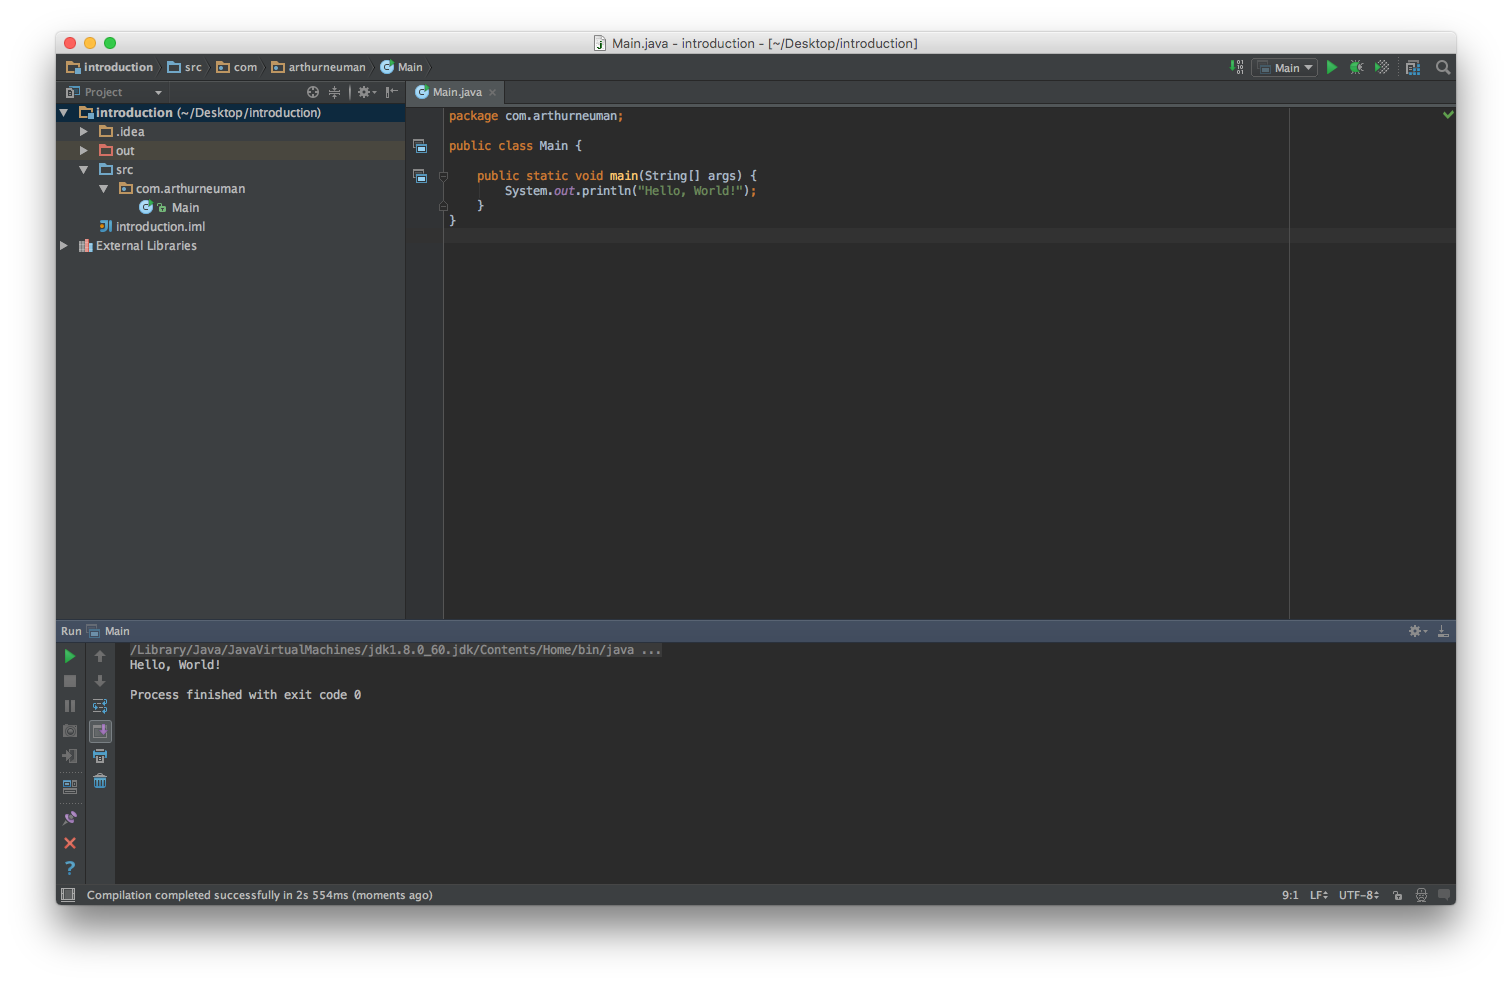
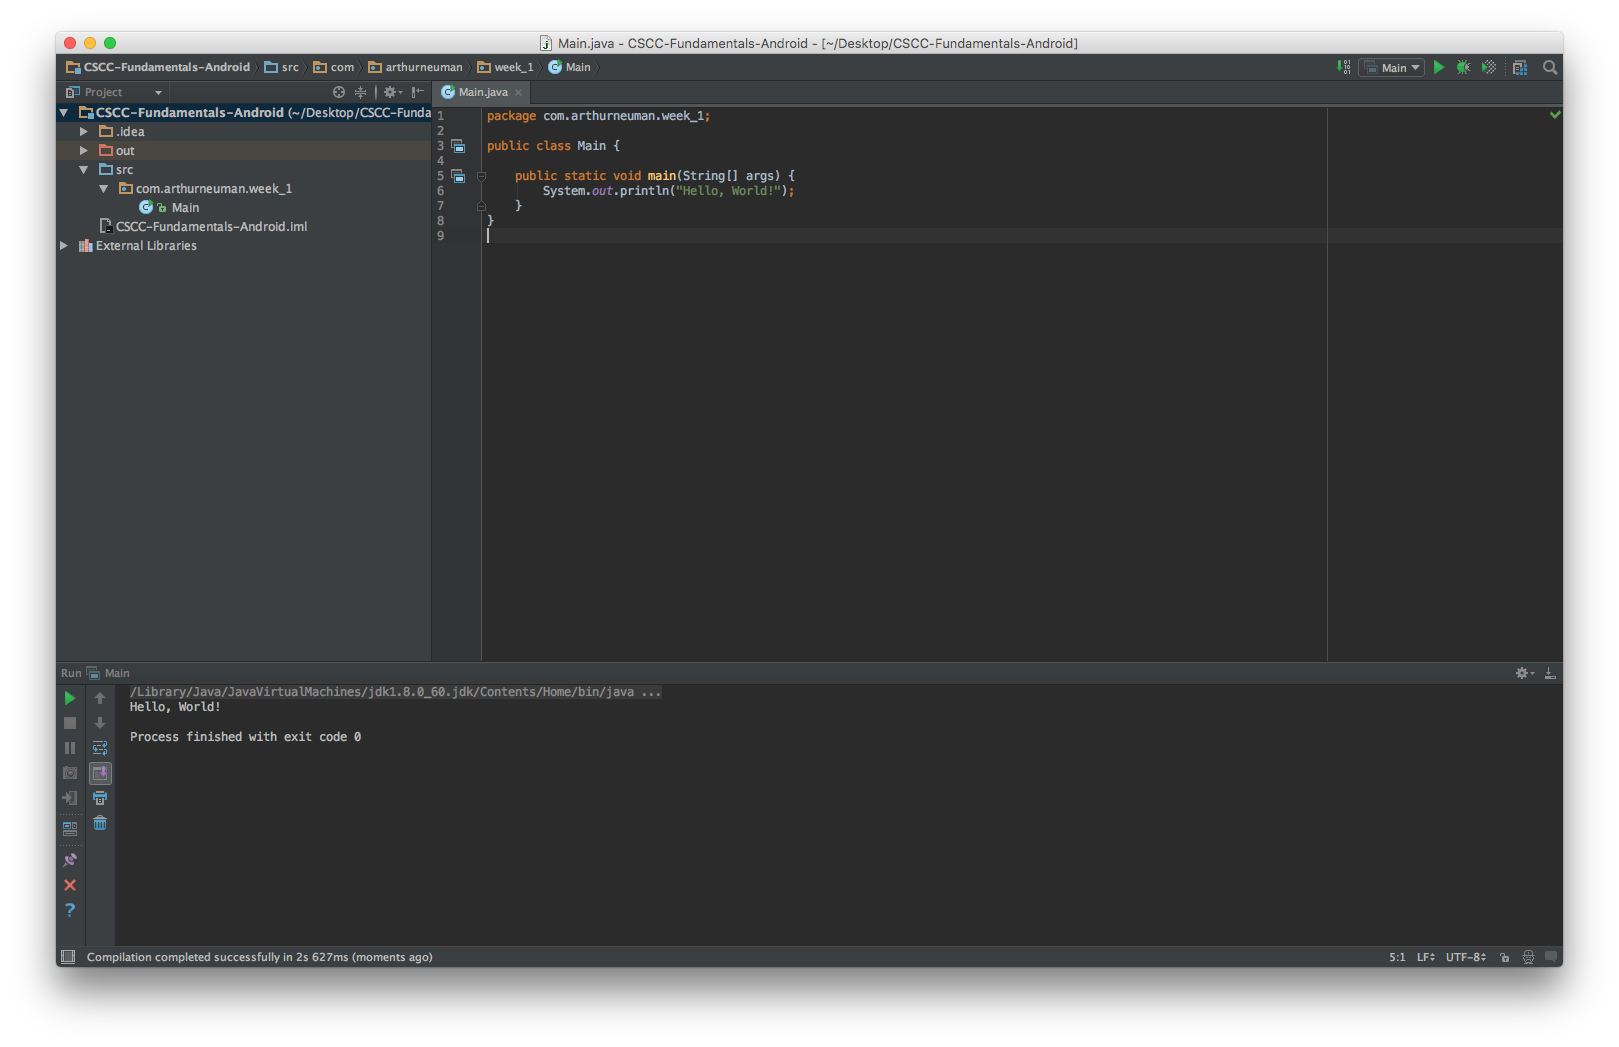
Update week 1 with GitHub notes

Changed region(s): [[0.0311, 0.0305, 0.9636, 0.9442], [0.2798, 0.2132, 0.3108, 0.2437]]

diff --git a/week_01/readme.md b/week_01/readme.md
@@ -3,7 +3,7 @@
 ## Corresponding Text
 *Learn Java for Android Development*, pp. 1-11, 37-70
 
-## Getting Started - IntelliJ IDEA Java IDE
+## IntelliJ IDEA Java IDE
 IntelliJ IDEA Community Edition is a free integrated development environment
 (IDE) providing useful features for Java programming.
 
@@ -30,8 +30,9 @@ To start, we'll rely on the command line app template. Make sure **Create
 project from template** is selected and click **Next**.
 
 Now, you can give the project a title, choose where it will be saved, and name
-the base package (we'll talk about packages in more detail later).  I've chosen
-the following for my first project:
+the base package (we'll talk about packages in more detail later). For now,
+your base package name should be something like *com.myname.week_1*. I've
+chosen the following for my first project:
 
 ![IntelliJ Project Details](images/new_project_details.png)
 
@@ -42,10 +43,10 @@ an editor on the right.
 
 We can write Java code in the editor and run our programs from the IntelliJ IDE
 itself.  We can check that everything is working by entering the following code
-in the editor.  Make sure you replace `package com.myname` with what you
+in the editor.  Make sure you replace `package com.myname.week_1` with what you
 named your package.
 
-    package com.myname;
+    package com.myname.week_1;
 
     public class Main {
 
@@ -107,7 +108,7 @@ memory and the address of that location is stored in the variable.
 ### Creating variables and storing values
 Recall that variables are named storage locations for data. Storing data and
 accessing it later is important in nearly all computer programs.  In Java,
-a variable name can be any collection of letters, digits, "_", or "$",
+a variable name can be any collection of letters, digits, "\_", or "$",
 beginning as long as it doesn't begin with a digit.  Typically, variable names
 begin with a letter and describe the value being stored.
 
@@ -177,7 +178,7 @@ The following is a syntactically valid Java program consisting only of
 variable declarations:
 
 ```
-package com.myname;
+package com.myname.week_1;
 
 public class Main {
     public static void main(String[] args) {
@@ -269,7 +270,7 @@ example, comments are preceded by two forward slashes, `//`.  We're also using
 `System.out.println()`; remember that this lets us print values to the console.
 
 ```
-package com.myname;
+package com.myname.week_1;
 
 public class Main {
     public static void main(String[] args) {
@@ -324,7 +325,7 @@ corresponding to the characters.
 Lets looks at some more examples of operators.
 
 ```
-package com.myname;
+package com.myname.week_1;
 
 public class Main {
     public static void main(String[] args) {
@@ -379,7 +380,7 @@ Finally, let's look at the array index operator.  For this example, we'll
 initialize an array with some values using braces.
 
 ```
-package com.myname;
+package com.myname.week_1;
 
 public class Main {
     public static void main(String[] args) {
@@ -426,14 +427,71 @@ integer.
 
 What happens in the following?
 
-```int quotient = 10 / 4```
+```
+int quotient = 10 / 4
+```
 
 The value of quotient is *2*.  If you were to divide 10 by 4 by hand, you would
 see that the quotient is 2.5.  Since the left hand side is an integer and 2.5
 is not an integer, the value is truncated and the integer *2* is stored in
 *quotient*.
 
-### Exercises
+## Using GitHub
+For this class, we'll use GitHub to save and share our work.
+
+### Git and GitHub
+GitHub is built on Git, a version control system allowing you to keep track of
+changes to your code at various points in time as snapshots.  When working with
+Git on your computer, there are three distinct stages in which data resides:
+the working directory, the staging area, and the local repository.  The working
+directory is a where data you are modifying exists; the working directory
+consists of the files that you will make changes to as you develop your
+programs. The staging area stores information about what data will be part of
+the next snapshot you store. The repository is a store of all the snapshots
+you've taken; you can use the repository to compare different snapshots and
+even revert your data to the state it was in a previous snapshot.
+
+A basic Git workflow consists of making changes to files in the working
+directory, adding them to a new snapshot in the staging area, and committing
+the snapshot to the repository. All this can take place on your own computer.
+Git is also able to easily update a repository on another computer based on
+changes you've made on your computer.  GitHub can be used to host a remote
+repository and we can push changes from our local repository to a GitHub
+repository. Similarly, you can pull changes from a remote repository to your
+local repository and into your working directory.  
+
+For a better overview of how Git works, try this Git tutorial:
+https://try.github.io
+
+If you don't have a GitHub account, go to https://github.com and create one.
+For the work in this class, you can create one repository for each exercise or
+one repository for all the excercises; one repository for all the exercises
+will probably be more manageable. We'll work with creating repositories from
+within IntelliJ IDEA.
+
+### Working with GitHub in IntelliJ IDEA
+With our existing project, we can create a new repository by selecting
+**View -> Import into Version Control -> Share Project on Github** from
+the menu bar. If this is the first time using GitHub with IntelliJ, you will
+be prompted to enter your Github credentials and an IntelliJ password.
+
+You will be prompted to enter a repository name, a remote name, and a
+description; leave the remote name set to *origin*.  
+
+![Create a new repository](images/new_repo.png)
+
+After clicking **Share**, you will be prompted to select the files to add.
+For now, we can add the default set of files.
+
+![Commit files](images/initial_commit.png)
+
+Once you have committed your files to the local repository, you can push the
+changes to the remote repository on GitHub by selecting **VCS -> Git -> Push**
+from the menus. When you modify, add, or remove files in the future, you can
+use the commit menu option; this combines steps of adding files to staging and
+committing them to the local repository.
+
+## Exercises
 **Write a program that stores a city name as a string, the city's zip code as an
 integer, and the high temperature for the next five days in an array.  The
 program should calculate the average high temperature for the next five days
@@ -443,61 +501,18 @@ city name, the zip code, and the average high temperature.**
 The average of a collection of values is the sum of all the values divided by
 the number of values.
 
-```
-package com.myname;
-
-public class Main {
-    public static void main(String[] args) {
-        String city = "Columbus";
-        int zipCode = 43215;
-        int[] highTemperatures = {32, 25, 27, 40, 45};
-
-        double averageTemperature = highTemperatures[0];
-        averageTemperature += highTemperatures[1];
-        averageTemperature += highTemperatures[2];
-        averageTemperature += highTemperatures[3];
-        averageTemperature += highTemperatures[4];
-
-        averageTemperature /= 5;
-
-        System.out.println("City: " + city);
-        System.out.println("Zip Code: " + zipCode );
-        System.out.println("Average High Temperature " + averageTemperature);
-    }
-}
-```
-
-An alternative way to compute the average is by using a more complex compound
-expression:
-
-```
-double averageTemperature = highTemperatures[0] + highTemperatures[1]
-                            + highTemperatures[2] + highTemperatures[3]
-                            + highTemperatures[4]
-averageTemperature /= 5;
-```
-
-For the values we used, the output should be:
+For example, if the city is Columbus; the zip code is 43215; and the high
+temperatures for the next five days are 32, 25, 27, 40, and 45, the output of
+the program might be:
 
 ```
 City: Columbus
 Zip Code: 43215
 Average High Temperature 33.8
-Average High Temperature 33.0
 ```
 
-#### Problem
-**Notice we used the double type for the average; division of integers doesn't
-always result in an integer.  What happens when we divide the sum of the array
-elements by *5* in the same expression?**
+When computing the average high temperature, was the value stored as an
+integer value or a floating-point value? What happens to the computed average
+with either data type?
 
-The sum of several integers is an integer.  As written, *5* is also an integer.
-When we divide an integer by an integer, Java will return an integer - possibly
-truncating the average value.  To see this with the code above, replace the
-calculation of *averageTemperature* with the following.
-
-```
-double averageTemperature = (highTemperatures[0] + highTemperatures[1]
-                            + highTemperatures[2] + highTemperatures[3]
-                            + highTemperatures[4]) / 5;
-```
+Be sure to commit your code and push it to GitHub.

diff --git a/README.md b/README.md
@@ -1,4 +1,4 @@
-# CSCC-Java-for-Android
+# CSCC-Fundamentals-Android-Notes
 Lecture notes and supporting material for the Programming Fundamentals for
 Android course at Columbus State Community College.
 
@@ -19,4 +19,3 @@ following the links below.
 - [Week 13 - Concurrency and Threading](week_13/readme.md)
 - [Week 14 - JSON and Objects](week_14/readme.md)
 - [Week 15 - HTTP and Networking](week_15/readme.md)
-
